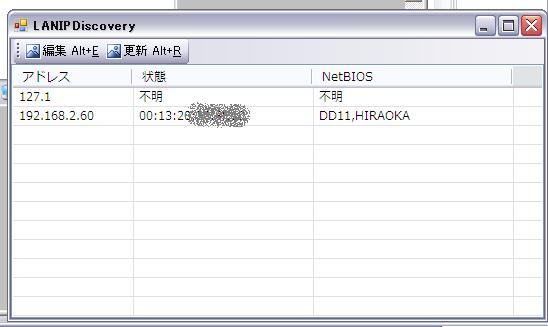
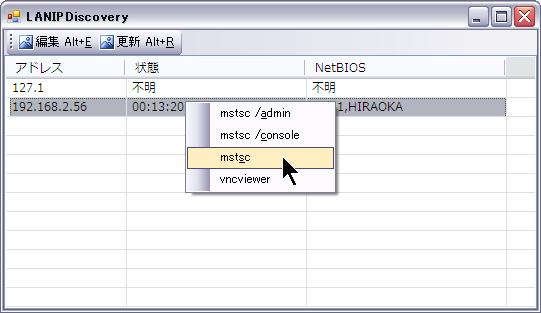
LANIPDiscovery 1.1.0 ・x86で起動するように強制した。 ・右クリックによるリモート接続を補助できるようにした。

Changed region(s): [[0.0, 0.0, 1.0, 1.0]]

diff --git a/LANIPDiscovery/NForm.Designer.cs b/LANIPDiscovery/NForm.Designer.cs
@@ -23,6 +23,7 @@
         /// コード エディタで変更しないでください。
         /// </summary>
         private void InitializeComponent() {
+            this.components = new System.ComponentModel.Container();
             System.ComponentModel.ComponentResourceManager resources = new System.ComponentModel.ComponentResourceManager(typeof(NForm));
             this.tsc = new System.Windows.Forms.ToolStripContainer();
             this.lvl = new System.Windows.Forms.ListView();
@@ -32,10 +33,16 @@
             this.toolStrip1 = new System.Windows.Forms.ToolStrip();
             this.tsbEdit = new System.Windows.Forms.ToolStripButton();
             this.tsbRefresh = new System.Windows.Forms.ToolStripButton();
+            this.menu = new System.Windows.Forms.ContextMenuStrip(this.components);
+            this.mstscadminToolStripMenuItem = new System.Windows.Forms.ToolStripMenuItem();
+            this.mstscconsoleToolStripMenuItem = new System.Windows.Forms.ToolStripMenuItem();
+            this.mstscToolStripMenuItem = new System.Windows.Forms.ToolStripMenuItem();
+            this.vncviewerToolStripMenuItem = new System.Windows.Forms.ToolStripMenuItem();
             this.tsc.ContentPanel.SuspendLayout();
             this.tsc.TopToolStripPanel.SuspendLayout();
             this.tsc.SuspendLayout();
             this.toolStrip1.SuspendLayout();
+            this.menu.SuspendLayout();
             this.SuspendLayout();
             // 
             // tsc
@@ -62,6 +69,7 @@
             this.chAddr,
             this.chStat,
             this.chName});
+            this.lvl.ContextMenuStrip = this.menu;
             this.lvl.Dock = System.Windows.Forms.DockStyle.Fill;
             this.lvl.Font = new System.Drawing.Font("メイリオ", 9F, System.Drawing.FontStyle.Regular, System.Drawing.GraphicsUnit.Point, ((byte)(128)));
             this.lvl.FullRowSelect = true;
@@ -73,6 +81,7 @@
             this.lvl.TabIndex = 0;
             this.lvl.UseCompatibleStateImageBehavior = false;
             this.lvl.View = System.Windows.Forms.View.Details;
+            this.lvl.MouseDown += new System.Windows.Forms.MouseEventHandler(this.lvl_MouseDown);
             // 
             // chAddr
             // 
@@ -118,6 +127,44 @@
             this.tsbRefresh.Text = "更新 Alt+&R";
             this.tsbRefresh.Click += new System.EventHandler(this.tsbRefresh_Click);
             // 
+            // menu
+            // 
+            this.menu.Items.AddRange(new System.Windows.Forms.ToolStripItem[] {
+            this.mstscadminToolStripMenuItem,
+            this.mstscconsoleToolStripMenuItem,
+            this.mstscToolStripMenuItem,
+            this.vncviewerToolStripMenuItem});
+            this.menu.Name = "menu";
+            this.menu.Size = new System.Drawing.Size(153, 114);
+            // 
+            // mstscadminToolStripMenuItem
+            // 
+            this.mstscadminToolStripMenuItem.Name = "mstscadminToolStripMenuItem";
+            this.mstscadminToolStripMenuItem.Size = new System.Drawing.Size(152, 22);
+            this.mstscadminToolStripMenuItem.Text = "mstsc /&admin";
+            this.mstscadminToolStripMenuItem.Click += new System.EventHandler(this.mstscadminToolStripMenuItem_Click);
+            // 
+            // mstscconsoleToolStripMenuItem
+            // 
+            this.mstscconsoleToolStripMenuItem.Name = "mstscconsoleToolStripMenuItem";
+            this.mstscconsoleToolStripMenuItem.Size = new System.Drawing.Size(152, 22);
+            this.mstscconsoleToolStripMenuItem.Text = "mstsc /&console";
+            this.mstscconsoleToolStripMenuItem.Click += new System.EventHandler(this.mstscconsoleToolStripMenuItem_Click);
+            // 
+            // mstscToolStripMenuItem
+            // 
+            this.mstscToolStripMenuItem.Name = "mstscToolStripMenuItem";
+            this.mstscToolStripMenuItem.Size = new System.Drawing.Size(152, 22);
+            this.mstscToolStripMenuItem.Text = "mst&sc";
+            this.mstscToolStripMenuItem.Click += new System.EventHandler(this.mstscToolStripMenuItem_Click);
+            // 
+            // vncviewerToolStripMenuItem
+            // 
+            this.vncviewerToolStripMenuItem.Name = "vncviewerToolStripMenuItem";
+            this.vncviewerToolStripMenuItem.Size = new System.Drawing.Size(152, 22);
+            this.vncviewerToolStripMenuItem.Text = "vncviewer";
+            this.vncviewerToolStripMenuItem.Click += new System.EventHandler(this.vncviewerToolStripMenuItem_Click);
+            // 
             // NForm
             // 
             this.AutoScaleDimensions = new System.Drawing.SizeF(6F, 12F);
@@ -135,6 +182,7 @@
             this.tsc.PerformLayout();
             this.toolStrip1.ResumeLayout(false);
             this.toolStrip1.PerformLayout();
+            this.menu.ResumeLayout(false);
             this.ResumeLayout(false);
 
         }
@@ -149,6 +197,11 @@
         private System.Windows.Forms.ColumnHeader chAddr;
         private System.Windows.Forms.ColumnHeader chStat;
         private System.Windows.Forms.ColumnHeader chName;
+        private System.Windows.Forms.ContextMenuStrip menu;
+        private System.Windows.Forms.ToolStripMenuItem mstscadminToolStripMenuItem;
+        private System.Windows.Forms.ToolStripMenuItem mstscconsoleToolStripMenuItem;
+        private System.Windows.Forms.ToolStripMenuItem mstscToolStripMenuItem;
+        private System.Windows.Forms.ToolStripMenuItem vncviewerToolStripMenuItem;
     }
 }
 

diff --git a/LANIPDiscovery/NForm.cs b/LANIPDiscovery/NForm.cs
@@ -12,6 +12,7 @@ using System.Xml;
 using System.Diagnostics;
 using System.Runtime.InteropServices;
 using System.Threading;
+using LANIPDiscovery.Properties;
 
 namespace LANIPDiscovery {
     public partial class NForm : Form {
@@ -99,7 +100,10 @@ namespace LANIPDiscovery {
         void UpdateText(String key, int i, String val) {
             if (InvokeRequired) { Invoke(new _UpdateText(UpdateText), key, i, val); return; }
 
-            lvl.Items[key].SubItems[i].Text = val;
+            try {
+                lvl.Items[key].SubItems[i].Text = val;
+            }
+            catch (NullReferenceException) { }
         }
 
         class Quest {
@@ -274,6 +278,53 @@ namespace LANIPDiscovery {
             Location = Screen.PrimaryScreen.WorkingArea.Location + Screen.PrimaryScreen.WorkingArea.Size
                 - Size;
         }
+
+        private void lvl_MouseDown(object sender, MouseEventArgs e) { }
+
+        void App(String exe, String arg) {
+            foreach (ListViewItem lvi in lvl.SelectedItems) {
+                try {
+                    ProcessStartInfo psi = new ProcessStartInfo(exe, arg.Replace("*", lvi.Text));
+                    psi.UseShellExecute = false;
+                    Process.Start(psi);
+                }
+                catch (Exception err) {
+                    MessageBox.Show(this, "失敗しました。\n\n" + err, Application.ProductName, MessageBoxButtons.OK, MessageBoxIcon.Exclamation);
+                }
+                break;
+            }
+        }
+
+        private void mstscadminToolStripMenuItem_Click(object sender, EventArgs e) { App("mstsc.exe", "/admin /v:*"); }
+
+        private void mstscconsoleToolStripMenuItem_Click(object sender, EventArgs e) { App("mstsc.exe", "/console /v:*"); }
+
+        private void mstscToolStripMenuItem_Click(object sender, EventArgs e) { App("mstsc.exe", " /v:*"); }
+
+        string VncViewer {
+            get {
+                String fpexe = Path.Combine(Environment.GetFolderPath(Environment.SpecialFolder.ProgramFiles), @"RealVNC\vncviewer.exe");
+
+                if (Settings.Default.VNCViewer.Length != 0 && File.Exists(Settings.Default.VNCViewer)) {
+                    fpexe = Settings.Default.VNCViewer;
+                }
+
+                OpenFileDialog ofd = new OpenFileDialog();
+                ofd.FileName = fpexe;
+                ofd.Filter = "*.exe|*.exe||";
+                ofd.Title = "vnc viewerを選んでください。";
+
+                if (ofd.ShowDialog(this) == DialogResult.OK) {
+                    Settings.Default.VNCViewer = fpexe;
+                    Settings.Default.Save();
+                    return fpexe;
+                }
+
+                return "";
+            }
+        }
+
+        private void vncviewerToolStripMenuItem_Click(object sender, EventArgs e) { App(VncViewer, " *"); }
 
     }
 }

diff --git a/LANIPDiscovery/Properties/Settings.Designer.cs b/LANIPDiscovery/Properties/Settings.Designer.cs
@@ -1,25 +1,37 @@
 //------------------------------------------------------------------------------
 // <auto-generated>
-//     This code was generated by a tool.
-//     Runtime Version:2.0.50727.3603
+//     このコードはツールによって生成されました。
+//     ランタイム バージョン:2.0.50727.3603
 //
-//     Changes to this file may cause incorrect behavior and will be lost if
-//     the code is regenerated.
+//     このファイルへの変更は、以下の状況下で不正な動作の原因になったり、
+//     コードが再生成されるときに損失したりします。
 // </auto-generated>
 //------------------------------------------------------------------------------
 
 namespace LANIPDiscovery.Properties {
-
-
+    
+    
     [global::System.Runtime.CompilerServices.CompilerGeneratedAttribute()]
     [global::System.CodeDom.Compiler.GeneratedCodeAttribute("Microsoft.VisualStudio.Editors.SettingsDesigner.SettingsSingleFileGenerator", "8.0.0.0")]
     internal sealed partial class Settings : global::System.Configuration.ApplicationSettingsBase {
-
+        
         private static Settings defaultInstance = ((Settings)(global::System.Configuration.ApplicationSettingsBase.Synchronized(new Settings())));
-
+        
         public static Settings Default {
             get {
                 return defaultInstance;
+            }
+        }
+        
+        [global::System.Configuration.UserScopedSettingAttribute()]
+        [global::System.Diagnostics.DebuggerNonUserCodeAttribute()]
+        [global::System.Configuration.DefaultSettingValueAttribute("")]
+        public string VNCViewer {
+            get {
+                return ((string)(this["VNCViewer"]));
+            }
+            set {
+                this["VNCViewer"] = value;
             }
         }
     }

diff --git a/LANIPDiscovery/Properties/AssemblyInfo.cs b/LANIPDiscovery/Properties/AssemblyInfo.cs
@@ -30,4 +30,4 @@ using System.Runtime.InteropServices;
 //      Revision
 //
 [assembly: AssemblyVersion("1.0.0.0")]
-[assembly: AssemblyFileVersion("1.0.0.0")]
+[assembly: AssemblyFileVersion("1.1.0.0")] // here
